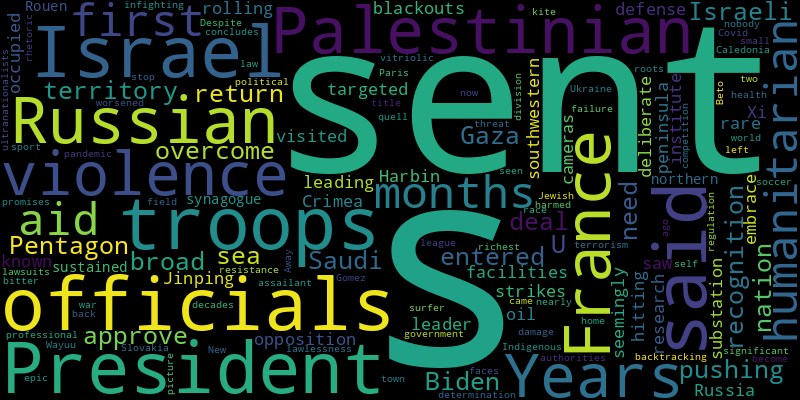
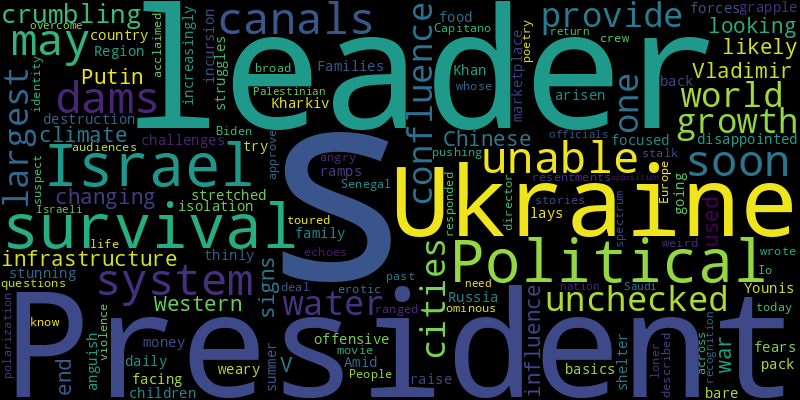
chore(bot): 👻 auto commit

diff --git a/README.md b/README.md
@@ -2,41 +2,41 @@
 Auto RSS New York Times and Generate Word Cloud
 
 ## New York Times Global News
-* It is the first humanitarian aid in months to be sent to the territory by sea. Pentagon officials said that no U.S. troops entered Gaza.
+* A system of dams and canals may soon be unable to provide water to one of the world’s largest cities, a confluence of unchecked growth, crumbling infrastructure and a changing climate.
+* Western leaders looking for signs that the Chinese leader used his influence on President Vladimir V. Putin to end the war in Ukraine are likely to be disappointed.
+* The stunning incursion into the Kharkiv Region lays bare the challenges facing Ukraine’s weary and thinly stretched forces as Russia ramps up its summer offensive.
+* Amid the destruction, a marketplace of survival has arisen focused on the basics: food, shelter and money.
+* A family struggles with daily survival and fears having to pack up again after going back to Khan Younis.
+* Families grapple with anguish and isolation as they try to raise their children in a country that increasingly questions their very identity.
+* Political violence and polarization stalk Europe today, with ominous echoes of the past.
+* When the director and crew of “Io Capitano” toured Senegal with their acclaimed movie, audiences responded with their life stories.
+* People who know the suspect described a “weird and angry” loner who wrote erotic poetry, and whose resentments ranged across the political spectrum.
 * President Biden is pushing for a broad deal that would get Israel to approve a Palestinian nation in return for Saudi recognition of Israel. But officials need to overcome Israeli opposition.
-* The strikes targeted southwestern Russia and the Russian-occupied peninsula of Crimea, hitting oil facilities and a substation, leading to rolling blackouts.
-* The Russian leader visited an institute in Harbin known for defense research. President Xi Jinping saw him off with a rare and seemingly deliberate embrace for the cameras.
-* The synagogue, in Rouen, northern France, sustained “significant damage,” but nobody other than the assailant was harmed, the authorities said.
-* The sport came to Beto Gomez’s small Indigenous town nearly two decades ago. Despite some resistance back home, he is now the world’s only professional kite surfer with Wayuu roots.
-* France has sent troops to quell violence in New Caledonia, where Paris is seen as backtracking on promises of self-determination.
-* As it concludes an epic title race, soccer’s richest competition is a picture of health on the field. Away from it, the league faces lawsuits, infighting and the threat of government regulation.
-* Years of vitriolic rhetoric, worsened by the Covid-19 pandemic and the war in Ukraine, left Slovakia with bitter political division.
-* After 50 years of failure to stop violence and terrorism against Palestinians by Jewish ultranationalists, lawlessness has become the law.
 
 ![Global](./global.png)
 ## New York Times United States News
-* The man, Daniel S. Perry, was convicted of killing a protester during a Black Lives Matter demonstration in Austin.
-* “It’s on all of us to make sure the next time we need to get help for someone, we do better,” Cara Lamb, the gunman’s ex-wife, told the commission investigating the October mass shooting.
-* New census estimates find moderate post-pandemic rebounds for big cities in the Midwest and Northeast.
-* A union representing about 48,000 academic workers said that campus leaders mishandled pro-Palestinian demonstrations. The vote gives the union’s executive board the ability to call a strike at any time.
-* As some of the loudest singing insects on Earth are back to chirp at a volume similar to an airplane’s, Americans are rejoicing or covering their ears. Listen to some of the species.
-* President Biden is pushing for a broad deal that would get Israel to approve a Palestinian nation in return for Saudi recognition of Israel. But officials need to overcome Israeli opposition.
-* In Montana, Republicans are trying to paint Senator Jon Tester as a Washington sellout, while their own candidate, Tim Sheehy, faces scrutiny over his credibility and how he sustained a gunshot wound.
-* The authorities had given demonstrators until 7 p.m. to vacate a new encampment that had been erected at a fire-damaged complex on campus.
-* School officials canceled classes in the city on Friday, and hundreds of thousands were left without power. It may take as much as 48 hours to restore power to some customers.
-* It is a time-honored tradition in U.S. politics: wealthy people burning through their fortunes to ultimately lose an election.
+* The votes came weeks after students at a pro-Palestinian encampment were attacked for hours by a large group of counterprotesters without police intervention.
+* His narrow win there in 2020 was seen as a sign of Georgia’s emergence as a battleground state. But in 2024, President Biden faces a much different climate there.
+* The Virginia governor rejected efforts by the state’s Democrats to reshape the Commonwealth’s relationship with its Confederate past.
+* The union representing academic workers in the University of California system said other campuses might strike, too, if officials failed to address their complaints over the handling of pro-Palestinian protests.
+* The former president’s criminal trial has underscored what he values: loyalty, beauty, press coverage and using allies as bullies.
+* Majd Kamalmaz disappeared in Syria in early 2017. American officials recently disclosed to his family that they had intelligence indicating that he was dead.
+* Even in the president’s favorite political stomping ground, his standing has slipped with Democrats who will be vital to a repeat victory, interviews with nearly two dozen Black voters showed.
+* A spicy, yellow dollop of cabbage slaw became Tennessee’s first official state food — then everyone had to learn what it was.
+* In a speech to the state’s Republican Party, the former president said “I know we won” there in 2020. But it has been 52 years since a G.O.P. presidential candidate carried Minnesota.
+* A violent encounter captured on video was part of a surge in jail deaths that spurred an inquiry into the Riverside County Sheriff’s Department.
 
 ![US](./usnews.png)
 ## New York Times Asia News
+* Western leaders looking for signs that the Chinese leader used his influence on President Vladimir V. Putin to end the war in Ukraine are likely to be disappointed.
+* Families grapple with anguish and isolation as they try to raise their children in a country that increasingly questions their very identity.
+* One Afghan was also injured in the attack, which many expect will hinder the government’s recent efforts to lure foreign visitors.
+* Authoritarian governments have long sought to target dissidents abroad. But the digital age may have given them stronger motives, and better tools, for transnational repression.
 * France has sent troops to quell violence in New Caledonia, where Paris is seen as backtracking on promises of self-determination.
 * President Biden is pushing for a broad deal that would get Israel to approve a Palestinian nation in return for Saudi recognition of Israel. But officials need to overcome Israeli opposition.
 * The Russian leader visited an institute in Harbin known for defense research. President Xi Jinping saw him off with a rare and seemingly deliberate embrace for the cameras.
 * Signaling growing alarm, policymakers ramped up efforts to stem a continued decline in real estate values.
 * At a sanctuary on New Zealand’s North Island, the long-endangered flightless birds have grown so much in number that they are being transported to other areas to start new colonies.
 * The island democracy was early to ban TikTok on government phones, and the ruling party refuses to use it. But a U.S.-style ban is not under consideration.
-* Also, Michael Cohen kept his cool under cross-examination.
-* He fought prejudice and incarceration during World War II to lead a successful career, becoming one of the first editors of color at a metropolitan newspaper.
-* At a summit with China’s leader, in Beijing, the Russian president called for stronger economic ties between the countries, as he intensifies his war effort.
-* Construction at the facility was not affected. The Biden administration awarded the company a $6.6 billion grant last month to expand in the United States.
 
 ![Asian](./asian.png)
